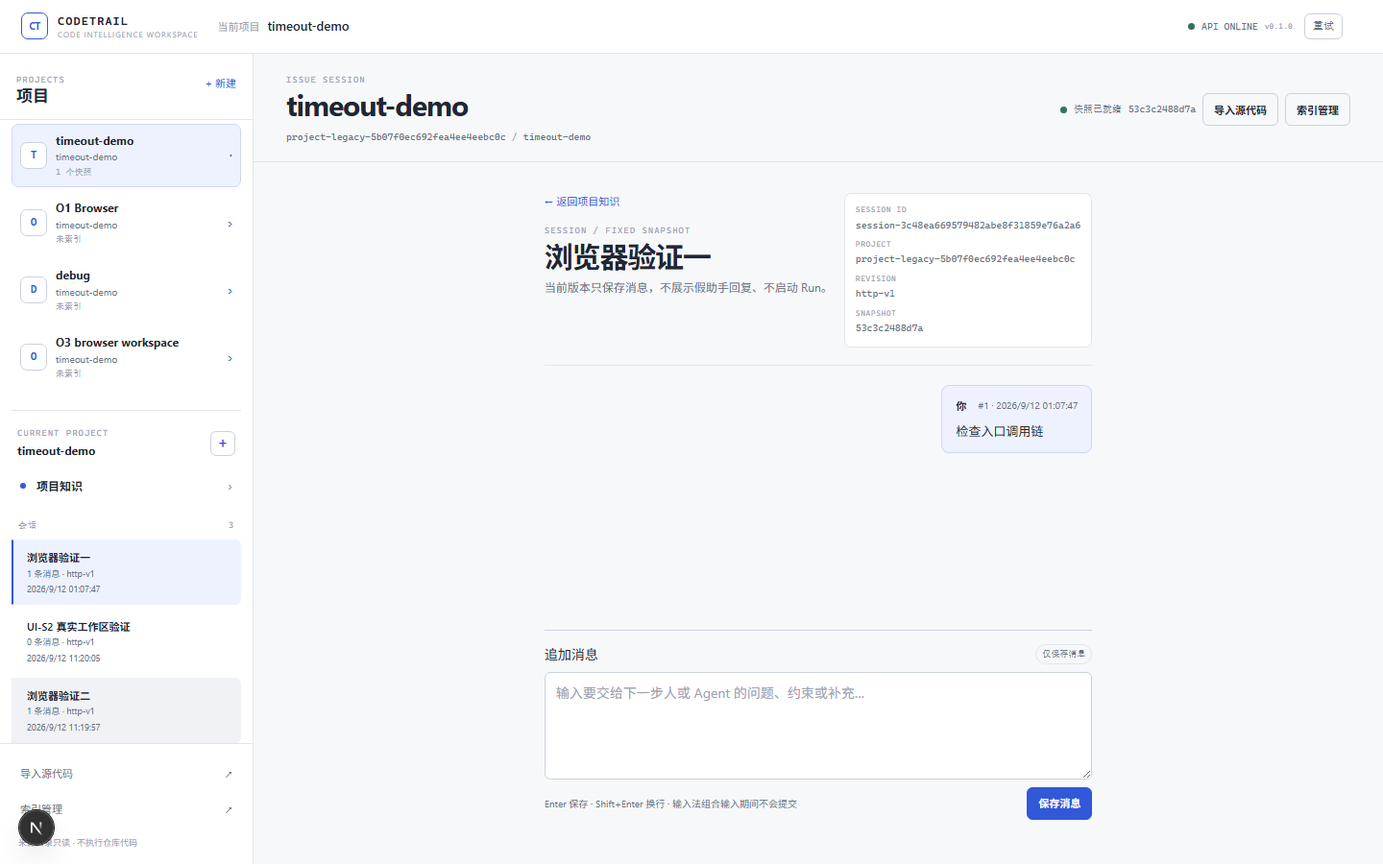
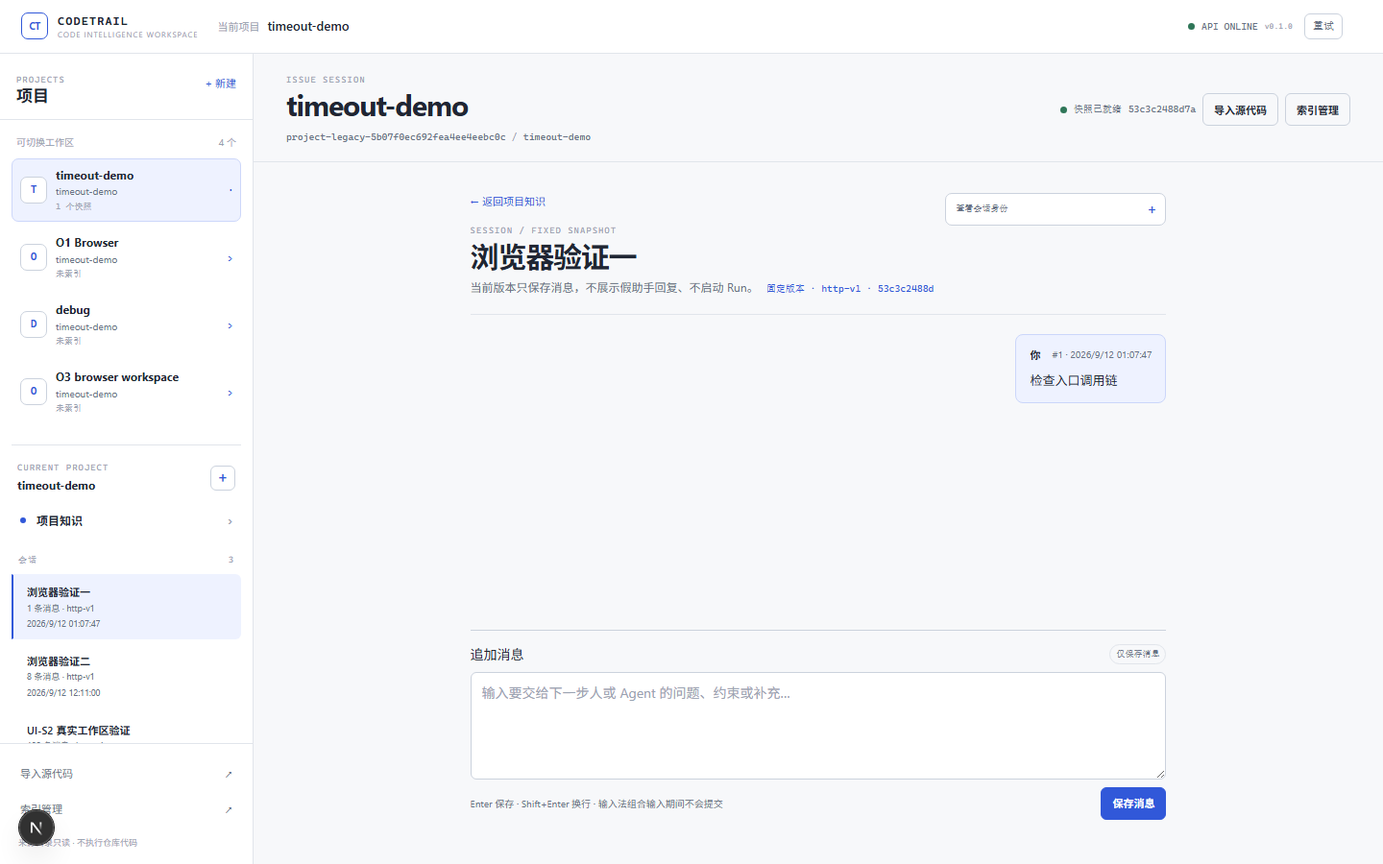
fix(ui): protect session drafts during save

diff --git a/apps/web/app/workbench-ui.tsx b/apps/web/app/workbench-ui.tsx
@@ -443,6 +443,7 @@ function ProjectRail({
                     type="button"
                     key={item.session_id}
                     className={`ct-session-item${item.session_id === session.selectedSessionId ? " is-selected" : ""}`}
+                    data-session-id={item.session_id}
                     onClick={() => session.onSelectSession(item.session_id)}
                     aria-current={item.session_id === session.selectedSessionId ? "page" : undefined}
                   >
@@ -872,7 +873,7 @@ function OverviewSections({ overview, knowledge }: { overview: ProjectOverview; 
   );
 }
 
-function SessionView({ projectId, session }: { projectId: string | null; session: SessionUi }) {
+function SessionView({ session, onBack }: { session: SessionUi; onBack: () => void }) {
   const selected = session.sessions.find((item) => item.session_id === session.selectedSessionId) ?? null;
   const handleKeyDown = (event: KeyboardEvent<HTMLTextAreaElement>) => {
     if (event.key === "Enter" && !event.shiftKey && !event.nativeEvent.isComposing) {
@@ -886,8 +887,11 @@ function SessionView({ projectId, session }: { projectId: string | null; session
   return (
     <div className="ct-page ct-session-page">
       <div className="ct-session-header">
-        <div><button type="button" className="ct-back-button" onClick={() => session.onSelectSession("")}>← 返回项目知识</button><p className="ct-overline">SESSION / FIXED SNAPSHOT</p><h2>{selected.topic}</h2><p>当前版本只保存消息，不展示假助手回复、不启动 Run。</p></div>
-        <div className="ct-session-identity"><span><small>SESSION ID</small><code title={selected.session_id}>{selected.session_id}</code></span><span><small>PROJECT</small><code>{projectId ?? selected.project_id}</code></span><span><small>REVISION</small><code>{selected.index.revision}</code></span><span><small>SNAPSHOT</small><code title={selected.index.snapshot_hash}>{shortHash(selected.index.snapshot_hash)}</code></span></div>
+        <div><button type="button" className="ct-back-button" onClick={onBack}>← 返回项目知识</button><p className="ct-overline">SESSION / FIXED SNAPSHOT</p><h2>{selected.topic}</h2><p>当前版本只保存消息，不展示假助手回复、不启动 Run。<span className="ct-session-fixed-version">固定版本 · {selected.index.revision} · {shortHash(selected.index.snapshot_hash, 10)}</span></p></div>
+        <details className="ct-session-details">
+          <summary>查看会话身份</summary>
+          <div className="ct-session-identity"><span><small>SESSION ID</small><code>{selected.session_id}</code></span><span><small>PROJECT ID</small><code>{selected.project_id}</code></span><span><small>REVISION</small><code>{selected.index.revision}</code></span><span><small>SNAPSHOT HASH</small><code>{selected.index.snapshot_hash}</code></span></div>
+        </details>
       </div>
       <div className="ct-message-area" aria-live="polite">
         {session.messagesStatus === "loading" && session.messages.length === 0 ? <LoadingNote>正在读取这个会话的消息…</LoadingNote> : session.messagesStatus === "error" && session.messages.length === 0 ? <div className="ct-error-block"><div><strong>会话消息请求失败</strong><span>{session.messagesError ?? "请重试。"}</span></div><button type="button" className="ct-button ct-button-secondary" onClick={() => void session.onRetryMessages()}>重试</button></div> : session.messages.length > 0 ? <>{session.messages.map((message) => <article className={`ct-message is-${message.source}`} key={message.message_id}><div className="ct-message-heading"><strong>{message.source === "human" ? "你" : "Agent"}</strong><span>#{message.sequence} · {formatDate(message.created_at)}</span></div><p>{message.content}</p></article>)}{session.messagesHasMore ? <div className="ct-message-pager"><span>当前按服务端 sequence 递增读取</span><button type="button" className="ct-button ct-button-secondary" onClick={() => void session.onLoadMoreMessages()} disabled={session.messagesStatus === "loading"}>{session.messagesStatus === "loading" ? "载入中…" : "加载后续消息"}</button></div> : null}</> : <div className="ct-message-empty"><strong>还没有消息</strong><span>先写下问题、约束或补充；保存后仍不会生成回复。</span></div>}
@@ -1036,7 +1040,7 @@ export default function WorkbenchUi(props: WorkbenchUiProps) {
         <section className="ct-center-column" aria-label={props.viewMode === "session" ? "Issue 会话" : "项目知识页"}>
           <ContextHeader project={props.project} index={props.index} viewMode={props.viewMode} onOpenOperation={setOperationPanel} />
           {alert ? <div className="ct-global-alert" role="alert"><span>{alert}</span>{props.connection.state === "error" ? <button type="button" className="ct-link-button" onClick={() => void props.connection.onCheck()}>重新检查</button> : null}</div> : null}
-          {operationPanel ? <OperationPanel mode={operationPanel} onClose={closeOperation} project={props.project} localImport={props.localImport} githubImport={props.githubImport} index={props.index} /> : props.viewMode === "session" ? <SessionView projectId={props.project.selectedProjectId} session={props.session} /> : <KnowledgeView project={props.project} index={props.index} knowledge={props.knowledge} onOpenOperation={setOperationPanel} />}
+          {operationPanel ? <OperationPanel mode={operationPanel} onClose={closeOperation} project={props.project} localImport={props.localImport} githubImport={props.githubImport} index={props.index} /> : props.viewMode === "session" ? <SessionView session={props.session} onBack={openKnowledge} /> : <KnowledgeView project={props.project} index={props.index} knowledge={props.knowledge} onOpenOperation={setOperationPanel} />}
         </section>
         {props.panelMode === "source" ? <EvidencePanel evidence={props.evidence} /> : props.panelMode === "graph" || props.panelMode === "feature_graph" ? <GraphPanel graph={props.graph} /> : null}
       </div>

diff --git a/apps/web/app/workbench.tsx b/apps/web/app/workbench.tsx
@@ -80,6 +80,11 @@ import {
   unresolvedForSymbol,
   type GraphState,
 } from "../lib/graph";
+import {
+  nextSessionDraftRevision,
+  shouldClearSubmittedSessionDraft,
+  type SessionDraftSubmission,
+} from "../lib/session-draft";
 import WorkbenchUi from "./workbench-ui";
 
 type IndexUiStatus = "unindexed" | "creating" | "loading" | "ready" | "partial" | "error";
@@ -510,11 +515,15 @@ export default function Workbench() {
   const activeSessionDraftKey = selectedProjectId && selectedSessionId
     ? sessionDraftStorageKey(selectedProjectId, selectedSessionId)
     : null;
+  const sessionDraftRevisions = useRef<Record<string, number>>({});
   const sessionDraft = activeSessionDraftKey ? sessionDrafts[activeSessionDraftKey] ?? "" : "";
   const updateSessionDraft = useCallback((value: string) => {
     if (!activeSessionDraftKey) {
       return;
     }
+    sessionDraftRevisions.current[activeSessionDraftKey] = nextSessionDraftRevision(
+      sessionDraftRevisions.current[activeSessionDraftKey],
+    );
     setSessionDrafts((previous) => {
       const next = { ...previous };
       if (value) {
@@ -566,6 +575,7 @@ export default function Workbench() {
     sessionId: string;
     content: string;
     key: string;
+    draftRevision: number;
   } | null>(null);
   const knownGroupKeys = useRef<Set<string>>(new Set());
   const evidenceLink = useRef<EvidenceLink | null>(null);
@@ -1102,6 +1112,9 @@ export default function Workbench() {
 
   const openSession = useCallback(
     async (projectId: string, sessionId: string, knownSession?: Session) => {
+      sessionWriteController.current?.abort();
+      sessionWriteRequestId.current += 1;
+      sessionMessageRequest.current = null;
       let session = knownSession;
       const requestId = ++sessionOpenRequestId.current;
       try {
@@ -1261,6 +1274,9 @@ export default function Workbench() {
   const sendSessionMessage = useCallback(
     async (event?: React.FormEvent<HTMLFormElement>) => {
       event?.preventDefault();
+      if (sessionWriteStatus === "loading") {
+        return;
+      }
       if (!selectedProjectId || !selectedSessionId) {
         setSessionWriteError("请先选择一个会话。");
         return;
@@ -1276,11 +1292,20 @@ export default function Workbench() {
         previous.content === content
         ? previous.key
         : newSessionIdempotencyKey();
+      const draftRevision = activeSessionDraftKey
+        ? sessionDraftRevisions.current[activeSessionDraftKey] ?? 0
+        : 0;
+      const submission: SessionDraftSubmission = {
+        projectId: selectedProjectId,
+        sessionId: selectedSessionId,
+        draftRevision,
+      };
       sessionMessageRequest.current = {
         projectId: selectedProjectId,
         sessionId: selectedSessionId,
         content,
         key,
+        draftRevision,
       };
       sessionWriteController.current?.abort();
       const controller = new AbortController();
@@ -1311,8 +1336,20 @@ export default function Workbench() {
             ? { ...session, message_count: Math.max(session.message_count, message.sequence), updated_at: message.created_at }
             : session
         )));
-        updateSessionDraft("");
-        setSessionWriteStatus("success");
+        const shouldClearDraft = shouldClearSubmittedSessionDraft(
+          {
+            projectId: selectedProjectId,
+            sessionId: selectedSessionId,
+            draftRevision: activeSessionDraftKey
+              ? sessionDraftRevisions.current[activeSessionDraftKey]
+              : undefined,
+          },
+          submission,
+        );
+        if (shouldClearDraft) {
+          updateSessionDraft("");
+        }
+        setSessionWriteStatus(shouldClearDraft ? "success" : "idle");
         setSessionWriteError(null);
         sessionMessageRequest.current = null;
       } catch (error) {
@@ -1323,7 +1360,7 @@ export default function Workbench() {
         setSessionWriteError(errorMessage(error));
       }
     },
-    [selectedProjectId, selectedSessionId, sessionDraft, updateSessionDraft],
+    [activeSessionDraftKey, selectedProjectId, selectedSessionId, sessionDraft, sessionWriteStatus, updateSessionDraft],
   );
 
   const selectFeatureEvidence = useCallback(

diff --git a/apps/web/app/globals.css b/apps/web/app/globals.css
@@ -252,9 +252,18 @@ code { font-family: var(--ct-mono); }
 .ct-session-header { align-items: start; padding-bottom: 18px; border-bottom: 1px solid var(--ct-border); }
 .ct-back-button { display: block; margin-bottom: 17px; padding: 0; border: 0; background: transparent; color: var(--ct-blue); font-size: 11px; text-align: left; }
 .ct-back-button:hover { text-decoration: underline; }
-.ct-session-identity { display: grid; min-width: 220px; gap: 7px; padding: 11px; border: 1px solid var(--ct-border); border-radius: 7px; background: var(--ct-surface); }
+.ct-session-fixed-version { display: inline-block; margin-left: 8px; color: var(--ct-blue); font-family: var(--ct-mono); font-size: 10px; }
+.ct-session-details { min-width: 230px; }
+.ct-session-details > summary { display: flex; min-height: 34px; align-items: center; justify-content: space-between; gap: 10px; padding: 8px 10px; border: 1px solid var(--ct-border-strong); border-radius: 7px; background: var(--ct-surface); color: var(--ct-muted); cursor: pointer; font-family: var(--ct-mono); font-size: 9px; list-style: none; }
+.ct-session-details > summary::-webkit-details-marker { display: none; }
+.ct-session-details > summary::after { color: var(--ct-blue); content: "+"; font-size: 14px; line-height: 1; }
+.ct-session-details[open] > summary { border-radius: 7px 7px 0 0; }
+.ct-session-details[open] > summary::after { content: "−"; }
+.ct-session-details > summary:hover { border-color: var(--ct-blue); color: var(--ct-blue); }
+.ct-session-identity { display: grid; min-width: 220px; gap: 7px; padding: 11px; border: 1px solid var(--ct-border); border-top: 0; border-radius: 0 0 7px 7px; background: var(--ct-surface); }
 .ct-session-identity span { display: grid; min-width: 0; gap: 1px; }
 .ct-session-identity code { overflow: hidden; text-overflow: ellipsis; white-space: nowrap; }
+.ct-session-details .ct-session-identity code { overflow-wrap: anywhere; white-space: normal; }
 .ct-message-area { display: grid; min-height: 210px; align-content: start; gap: 12px; padding-bottom: 10px; }
 .ct-message { max-width: 86%; padding: 12px 14px; border: 1px solid var(--ct-border); border-radius: 8px; background: var(--ct-surface); }
 .ct-message.is-human { margin-left: auto; border-color: #cbd6fa; background: var(--ct-blue-soft); }

diff --git a/apps/web/lib/session-draft.test.ts b/apps/web/lib/session-draft.test.ts
@@ -1,0 +1,64 @@
+import assert from "node:assert/strict";
+import test from "node:test";
+
+import {
+  nextSessionDraftRevision,
+  shouldClearSubmittedSessionDraft,
+} from "./session-draft.ts";
+
+test("a delayed save does not clear a newer draft in the same session", async () => {
+  let draft = "first message";
+  let draftRevision = 0;
+  const submission = { projectId: "project-a", sessionId: "session-a", draftRevision };
+  let release!: () => void;
+  const response = new Promise<void>((resolve) => {
+    release = resolve;
+  });
+  const save = response.then(() => {
+    if (shouldClearSubmittedSessionDraft(
+      { projectId: "project-a", sessionId: "session-a", draftRevision },
+      submission,
+    )) {
+      draft = "";
+    }
+  });
+
+  draft = "follow-up while saving";
+  draftRevision = nextSessionDraftRevision(draftRevision);
+  release();
+  await save;
+
+  assert.equal(draft, "follow-up while saving");
+  assert.equal(
+    shouldClearSubmittedSessionDraft(
+      { projectId: "project-a", sessionId: "session-a", draftRevision },
+      submission,
+    ),
+    false,
+  );
+});
+
+test("draft identity includes session and revision rather than only text", () => {
+  const submission = { projectId: "project-a", sessionId: "session-a", draftRevision: 4 };
+  assert.equal(
+    shouldClearSubmittedSessionDraft(
+      { projectId: "project-a", sessionId: "session-a", draftRevision: 4 },
+      submission,
+    ),
+    true,
+  );
+  assert.equal(
+    shouldClearSubmittedSessionDraft(
+      { projectId: "project-a", sessionId: "session-a", draftRevision: 5 },
+      submission,
+    ),
+    false,
+  );
+  assert.equal(
+    shouldClearSubmittedSessionDraft(
+      { projectId: "project-b", sessionId: "session-a", draftRevision: 4 },
+      submission,
+    ),
+    false,
+  );
+});

diff --git a/apps/web/lib/session-draft.ts b/apps/web/lib/session-draft.ts
@@ -1,0 +1,22 @@
+export type SessionDraftSubmission = {
+  projectId: string;
+  sessionId: string;
+  draftRevision: number;
+};
+
+export function nextSessionDraftRevision(currentRevision: number | undefined): number {
+  return (currentRevision ?? 0) + 1;
+}
+
+export function shouldClearSubmittedSessionDraft(
+  current: {
+    projectId: string | null;
+    sessionId: string | null;
+    draftRevision: number | undefined;
+  },
+  submission: SessionDraftSubmission,
+): boolean {
+  return current.projectId === submission.projectId &&
+    current.sessionId === submission.sessionId &&
+    (current.draftRevision ?? 0) === submission.draftRevision;
+}

diff --git a/docs/subsystems/workbench.md b/docs/subsystems/workbench.md
@@ -18,7 +18,7 @@ UI-S1 的目标布局、尺寸、状态和截图验收见 [工作区 UI 规范](
 
 ## 数据与生命周期
 
-项目状态覆盖列表载入、空列表、就绪和错误；导入状态显示 queued/acquiring/indexing/ready/failed/interrupted 并提供失败/中断重试；索引状态覆盖未打开、创建中、载入中、就绪、部分完成和错误。切换 project_id 会取消或忽略旧请求，清空旧 index_id、图、源码、Session 列表/消息/当前选择和历史，再恢复该项目最新可用索引；Session 草稿不随旧项目状态混入，而是以 `project_id/session_id` 为键保存在浏览器 localStorage。浏览器另保存最近项目 ID、按 project_id 分隔的 selectedSessionId，以及按 project_id/index_id 分隔的明确 generation_id，项目、Session、消息与索引数据从服务端持久化恢复。Session 创建/消息追加使用稳定幂等键，写入失败保留草稿并可重试；切换 Session 不带入旧消息。消息接口按服务端 sequence 递增返回，后续页在消息尾部追加，空会话不显示无效分页入口。历史失败版本仍可打开，但默认选择只取最新 succeeded/partial；功能图不单独持久化，按需读取保存生成结果并从同一静态索引组装。
+项目状态覆盖列表载入、空列表、就绪和错误；导入状态显示 queued/acquiring/indexing/ready/failed/interrupted 并提供失败/中断重试；索引状态覆盖未打开、创建中、载入中、就绪、部分完成和错误。切换 project_id 会取消或忽略旧请求，清空旧 index_id、图、源码、Session 列表/消息/当前选择和历史，再恢复该项目最新可用索引；Session 草稿不随旧项目状态混入，而是以 `project_id/session_id` 为键保存在浏览器 localStorage。浏览器另保存最近项目 ID、按 project_id 分隔的 selectedSessionId，以及按 project_id/index_id 分隔的明确 generation_id，项目、Session、消息与索引数据从服务端持久化恢复。Session 创建/消息追加使用稳定幂等键，保存期间允许编辑但以 project/session/request 和草稿修订号判断旧响应是否仍可清空当前草稿；保存中按钮和 Enter 不重复提交，写入失败保留草稿并可重试；切换 Session 会使旧写请求失效且不带入旧消息。消息接口按服务端 sequence 递增返回，后续页在消息尾部追加，空会话不显示无效分页入口。历史失败版本仍可打开，但默认选择只取最新 succeeded/partial；功能图不单独持久化，按需读取保存生成结果并从同一静态索引组装。
 
 证据链接携带 project_id、index_id、路径、行范围、content_hash 和 evidence_id；Session 链接携带 project_id、session_id。工作台先检查 project_id 存在且 index_id/Session 属于该项目，再读取项目作用域的固定快照或 Session；任何返回的 index、路径、行范围、hash、evidence_id 或 Session 身份不一致都会显示错误，不会回退到当前 latest index。概览入口只接受 `python-entry-v1` 的 `__main__.py`/顶层 main guard 结果；O2 功能只展示同一生成结果实际返回的 symbol/evidence，明确显示 fixture/real、用量、未查询模块、局限和 partial/insufficient/failed 状态；功能图区分 semantic 与 static 关系，节点点击可回到同一快照的功能/源码证据，入口映射规则版本不一致时显示 unavailable；入口/功能证据进入既有源码检查器，模块选择进入同一快照的关系图，所有概览/生成功能、Session 消息、历史分页、路径/模块请求都有显式上限。
 
@@ -26,11 +26,11 @@ Session 使用同一幂等键重试时，工作台继续使用服务端返回的
 
 ## 错误与限制
 
-前端可以提交服务端 API 可见的绝对路径，但不读取或解析浏览器本机目录；服务端负责允许根目录、符号链接/junction 和 loopback 写边界。项目作用域端点拒绝不属于当前 project_id 的 index_id 或 Session。Session 主题/消息受长度限制，切换项目或 Session 不会带入其他范围的草稿或消息；保存失败保留当前草稿和原幂等键并允许重试，当前版本不显示模型回复、不启动 Run。概览未识别入口时明确标记未知，不把目录或名为 `main` 的函数冒充入口；动态调用保留 unresolved。功能生成显式触发，real 未配置模型时显示失败且不回退 fixture；切换项目/索引、模式/范围变化和重试都会取消或忽略过期请求。历史和功能图响应经过运行时形状校验，API 停止或返回错误时保留明确失败状态；Session 最多按页读取 40 个，消息最多按页读取 100 条，历史最多按页读取 40 个版本，功能图最多渲染 40 个节点和 120 条边，跨项目/索引/Session/生成版本及错误 evidence 引用均拒绝显示。
+前端可以提交服务端 API 可见的绝对路径，但不读取或解析浏览器本机目录；服务端负责允许根目录、符号链接/junction 和 loopback 写边界。项目作用域端点拒绝不属于当前 project_id 的 index_id 或 Session。Session 主题/消息受长度限制，切换项目或 Session 不会带入其他范围的草稿或消息；保存期间允许编辑，重复提交被阻止，旧 project/session/request 或旧草稿修订响应不会覆盖当前输入；保存失败保留当前草稿和原幂等键并允许重试，当前版本不显示模型回复、不启动 Run。概览未识别入口时明确标记未知，不把目录或名为 `main` 的函数冒充入口；动态调用保留 unresolved。功能生成显式触发，real 未配置模型时显示失败且不回退 fixture；切换项目/索引、模式/范围变化和重试都会取消或忽略过期请求。历史和功能图响应经过运行时形状校验，API 停止或返回错误时保留明确失败状态；Session 最多按页读取 40 个，消息最多按页读取 100 条，历史最多按页读取 40 个版本，功能图最多渲染 40 个节点和 120 条边，跨项目/索引/Session/生成版本及错误 evidence 引用均拒绝显示。
 
 ## 验证
 
-pnpm --dir apps/web test、pnpm web:typecheck 和 pnpm web:build；UI-S2 本轮另以实际浏览器核对生产 `/` 的桌面/平板/移动知识页、真实 Session 创建/切换/消息保存、Enter/Shift+Enter、空消息状态、草稿隔离、证据侧栏、合成证据边界、功能图侧栏和各视口无横向溢出，并生成 [生产截图](../design/workspace-ui-production/screenshots/)。既有流程继续核对本地路径导入、索引/项目切换、刷新恢复、历史版本选择/分页、功能图 semantic/static 图例与节点证据钻取、概览入口/模块跳转、fixture 功能生成、功能证据和 Session URL 打开、real 未配置失败/重试、导入错误状态、MCP 证据 URL 打开与 hash/归属校验，以及搜索、关系方向、分组折叠、源码证据、unresolved、API 停止和恢复重试。
+pnpm --dir apps/web test、pnpm web:typecheck 和 pnpm web:build；UI-S2 本轮另以实际浏览器核对生产 `/` 的桌面/平板/移动知识页、真实 Session 创建/切换/消息保存、延迟响应期间编辑草稿、成功/失败/重试、Enter/Shift+Enter、输入法 composition、空消息状态、草稿隔离、可展开身份详情、证据侧栏、合成证据边界、功能图侧栏和各视口无横向溢出，并生成 [生产截图](../design/workspace-ui-production/screenshots/)。既有流程继续核对本地路径导入、索引/项目切换、刷新恢复、历史版本选择/分页、功能图 semantic/static 图例与节点证据钻取、概览入口/模块跳转、fixture 功能生成、功能证据和 Session URL 打开、real 未配置失败/重试、导入错误状态、MCP 证据 URL 打开与 hash/归属校验，以及搜索、关系方向、分组折叠、源码证据、unresolved、API 停止和恢复重试。
 
 ## 相关决策
 

diff --git a/docs/design/workspace-ui-spec.md b/docs/design/workspace-ui-spec.md
@@ -72,7 +72,7 @@ UI-S1 不删除任何现有 API 能力；映射是目标信息架构，UI-S2 已
 
 ### 会话页
 
-会话页标题栏显示“返回项目知识”、主题、固定版本标签、项目名、revision/snapshot 和 Session 身份。固定版本是当前会话的上下文说明，不允许自动跟随项目最新索引。中央消息区只展示已保存消息、来源、序号和时间；在 Run 尚未实现前，不展示假执行事件、假助手回复、费用或可用的“分析”按钮。
+会话页标题栏显示“返回项目知识”、主题和简短固定版本标签；Session ID、Project ID、完整 revision/snapshot 身份收入可展开的详情层。固定版本是当前会话的上下文说明，不允许自动跟随项目最新索引。中央消息区只展示已保存消息、来源、序号和时间；在 Run 尚未实现前，不展示假执行事件、假助手回复、费用或可用的“分析”按钮。
 
 输入区固定在中央底部，textarea 最小高 `86px`，支持垂直调整大小。具体行为如下：
 
@@ -82,9 +82,9 @@ UI-S1 不删除任何现有 API 能力；映射是目标信息架构，UI-S2 已
 | `Shift+Enter` | 插入换行，不提交 |
 | 输入法 | composition 期间 Enter 不提交；composition 完成后用户再次按 Enter 才提交 |
 | 草稿 | 以 `project_id/session_id` 为键隔离；切换项目或 Session 不带入旧草稿，刷新恢复策略由生产实现决定 |
-| 保存中 | 保留 textarea 内容，提交按钮禁用，状态显示“保存中”；不插入本地假消息 |
-| 保存成功 | 使用服务端 sequence 和时间追加 human 消息，清空当前草稿，显示“已保存” |
-| 保存失败 | 错误紧邻输入区或消息区，保留草稿和幂等键，提供“重试保存”；不显示成功或助手状态 |
+| 保存中 | 保留 textarea 内容，允许编辑后续草稿；提交按钮和 Enter 禁用重复提交，状态显示“保存中”；不插入本地假消息 |
+| 保存成功 | 使用服务端 sequence 和时间追加 human 消息；只有提交时的 project/session/request 和草稿修订仍匹配时才清空当前草稿，否则保留后续文字并回到待保存状态 |
+| 保存失败 | 错误紧邻输入区或消息区，未变更草稿保留原幂等键并提供“重试保存”；后续编辑使用新的提交身份，不显示成功或助手状态 |
 | 分页 | 当前 API 按 `sequence` 递增返回，消息超过一页时在消息尾部提供“加载后续消息”；空会话不显示无效分页入口，追加新消息不跳到旧消息中间 |
 
 ### 证据面板
@@ -135,7 +135,7 @@ UI-S1 不删除任何现有 API 能力；映射是目标信息架构，UI-S2 已
 | --- | --- | --- | --- |
 | [desktop-empty-1440.png](workspace-ui-production/screenshots/desktop-empty-1440.png) | `1440x900` | 真实空工作区 | 空项目列表、创建项目入口、无索引知识空态 |
 | [desktop-knowledge-1440.png](workspace-ui-production/screenshots/desktop-knowledge-1440.png) | `1440x900` | 真实项目知识页 | 项目/Session 导航、固定索引、概览、搜索和功能历史 |
-| [desktop-session-1440.png](workspace-ui-production/screenshots/desktop-session-1440.png) | `1440x900` | 真实有消息 Session | Session 身份、固定 revision/snapshot、服务端消息序号、底部输入区 |
+| [desktop-session-1440.png](workspace-ui-production/screenshots/desktop-session-1440.png) | `1440x900` | 真实有消息 Session | 主题、简短固定版本、可展开 Session 身份、服务端消息序号、底部输入区 |
 | [desktop-evidence-1440.png](workspace-ui-production/screenshots/desktop-evidence-1440.png) | `1440x900` | 真实源码证据 | 右侧证据上下文、源码行号/hash、合成证据关系按钮禁用 |
 | [tablet-feature-graph-1024.png](workspace-ui-production/screenshots/tablet-feature-graph-1024.png) | `1024x768` | 真实功能图面板 | 平板三栏尺寸、语义/静态图例、面板宽度控制 |
 | [mobile-knowledge-390.png](workspace-ui-production/screenshots/mobile-knowledge-390.png) | `390x844` | 真实移动知识页 | 单列内容、移动项目入口、操作按钮和搜索不越界 |
@@ -163,6 +163,8 @@ UI-S1 不删除任何现有 API 能力；映射是目标信息架构，UI-S2 已
 - [x] 可从知识页打开和关闭功能图、源码证据，并调整桌面面板宽度；中央滚动、Session 身份和草稿不丢失。
 - [x] 已验证空 Session 不显示无效分页、已有消息显示后续分页入口；空工作区有真实 `/` 截图，原型另有空态截图。
 - [x] 已验证 Enter、Shift+Enter、输入法组合期间不提交、按 Session 隔离草稿，以及 API 离线后的写失败保留草稿与恢复后重试。
+- [x] 已验证保存响应延迟期间编辑草稿不会被旧成功回调清空；切换 Session 会使旧写请求失效，未变更内容仍按原幂等键重试。
+- [x] Session 标题优先主题与简短固定版本，Session ID、Project ID 和完整 snapshot hash 可在展开详情中访问。
 - [x] 证据面板显示 `project_id/index_id/generation_id` 上下文，图筛选位于图工具栏；合成证据不发起无效关系请求。
 - [x] 视觉使用中性背景、单一强调色、明确焦点和错误状态；无旧网格、装饰渐变、假终端和假精确产品宣传。
 - [x] 原型截图与生产页面分开标记，任何未实现 Run、Agent、SSE 和真实模型能力仍保持未实现状态。
